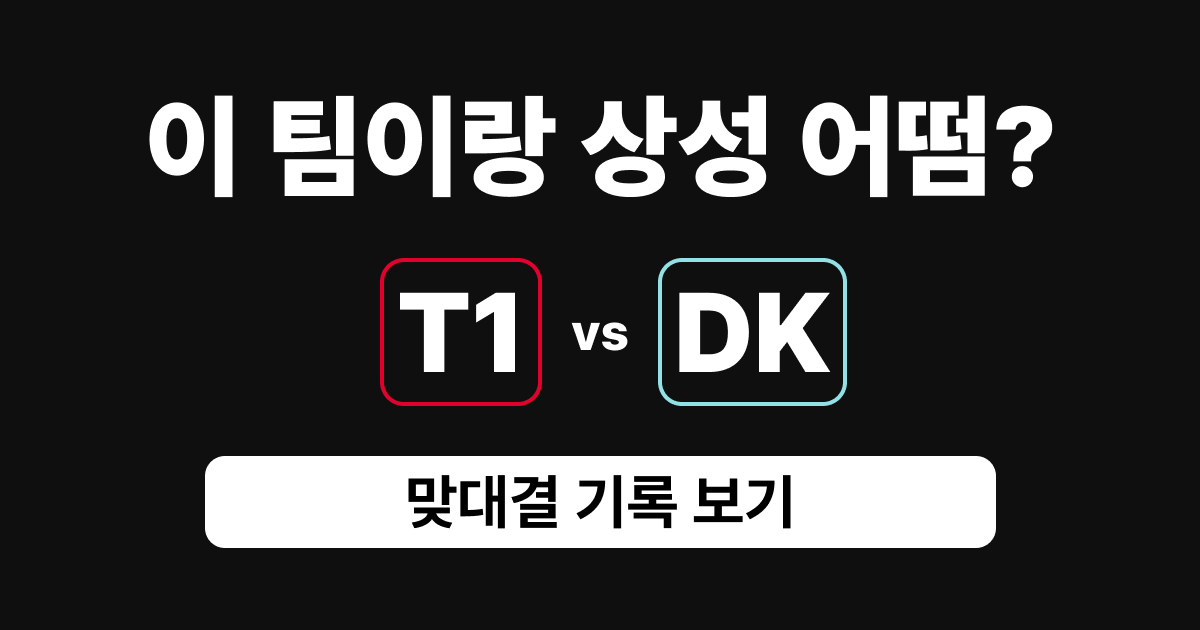
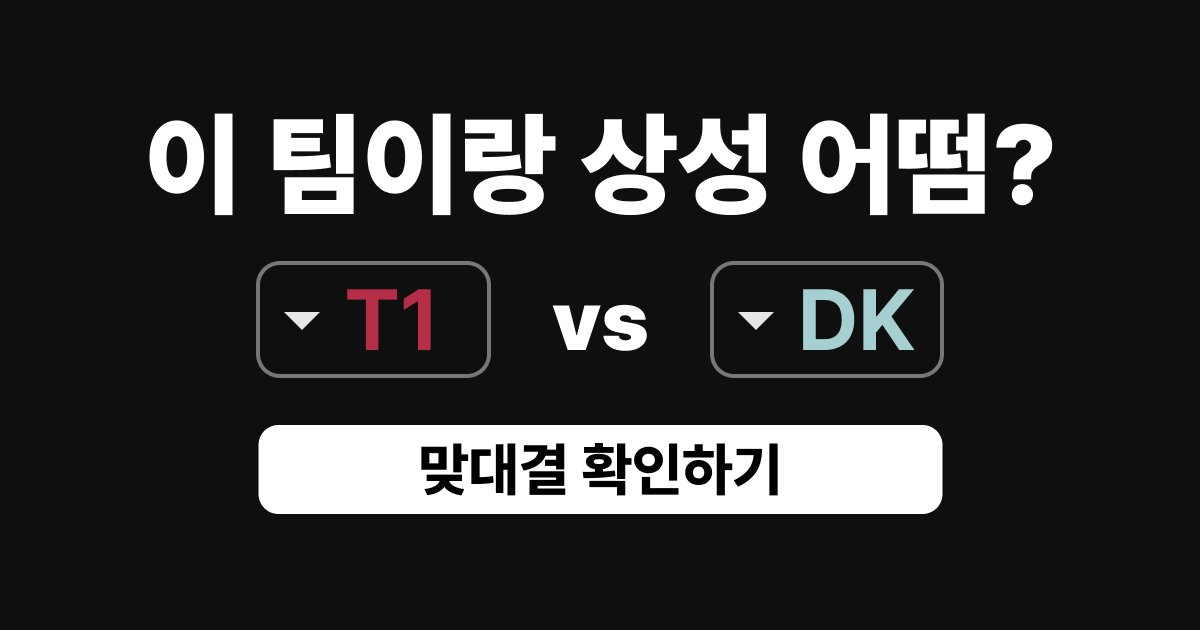
Update OG image
- Updated OG image
- Changed title font size

Changed region(s): [[0.1542, 0.3921, 0.8325, 0.8746], [0.1233, 0.1508, 0.8942, 0.3619]]

diff --git a/style.css b/style.css
@@ -33,9 +33,9 @@ body {
 }
 
 .hero-title {
-  font-size: 2.20rem;
-  font-weight: 900;
-  letter-spacing: 0.03em;
+  font-size: 2.00rem;
+  font-weight: 800;
+  letter-spacing: 0.02em;
   text-align: center;
   color: #ffffff;
   word-break: keep-all; /* 단어 단위로 줄바꿈 */
